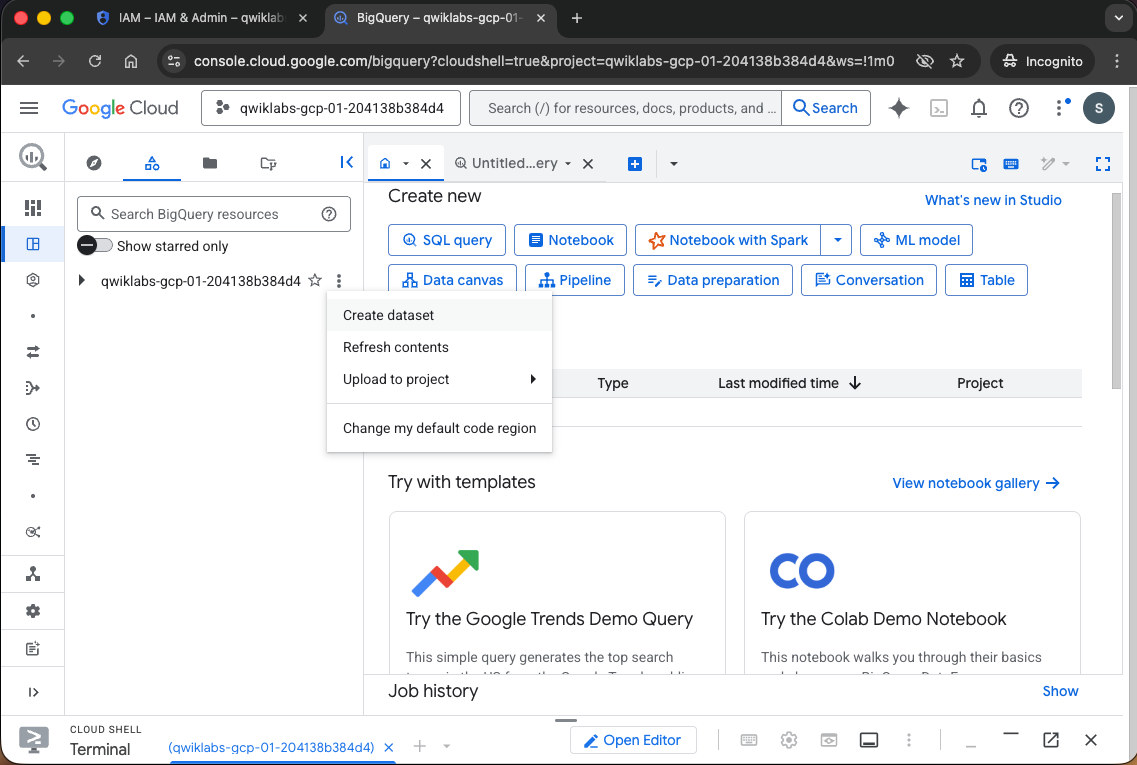
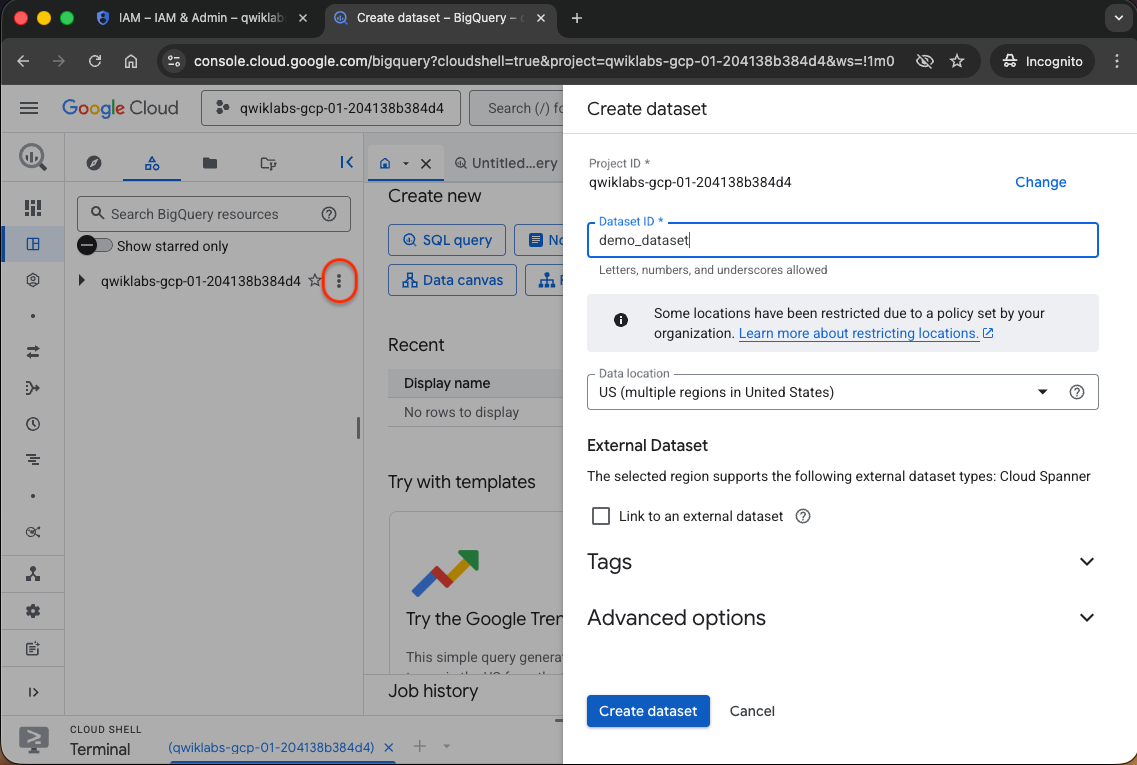
updated docs

diff --git a/GCP/guide/03-biglake.md b/GCP/guide/03-biglake.md
@@ -1,44 +1,254 @@
 ## Biglake
 
 **Preparation :**
+
 1. Activate Cloud Shell
 
    List the active account name `gcloud auth list`
 
    List the project ID : `gcloud config list project`
 
-    <img src="ss/datastream/01.png" width=75%>
-
 #### Task 1. Create a connection resource
 
 1. From the Navigation Menu, go to BigQuery > Studio. Click Done.
-
 2. To create a connection, switch to Explorer tab and click + Add data. Then use the search bar for data sources to search for Vertex AI. Click on the result for Vertex AI.
-
 3. In the Access external data in place, select BigQuery Federation.
 
+    <img src="ss/biglake/01-vertex-fed.png" width=60%>
 4. In the Connection type list, select Vertex AI remote models, remote functions and BigLake (Cloud Resource).
-
 5. In the Connection ID field, type my-connection.
-
 6. For Location type, choose Multi-region and select US (multiple regions in United States) from dropdown.
-
 7. Click Create connection.
 
+    <img src="ss/biglake/02-connection.png" width=60%>
+
+copy service account for next step.
+
 #### Task 2. Set up access to a Cloud Storage data lake
+
+The new connection resource read-only access to the Cloud Storage data lake so that BigQuery can access Cloud Storage files on behalf of users.
+
+<img src="ss/biglake/03-iam.png" width=60%>
 
 #### Task 3. Create a BigLake table
 
 **Create Dataset**
 
+Switch to Classic Explorer and click the three dots next to your project name, then select Create dataset.
+
+<img src="ss/biglake/04-create-ds.png" width=60%>
+
 **Create the table**
+
+Click on three dots next to demo_dataset, then choose Create table.
+
+<img src="ss/biglake/05-create-table-01.png" width=60%> <br>
+
+For Schema, enable Edit as text and copy and paste the following schema into the text box:
+
+```
+[
+{
+    "name": "customer_id",
+    "type": "INTEGER",
+    "mode": "REQUIRED"
+  },
+  {
+    "name": "first_name",
+    "type": "STRING",
+    "mode": "REQUIRED"
+  },
+  {
+    "name": "last_name",
+    "type": "STRING",
+    "mode": "REQUIRED"
+  },
+  {
+    "name": "company",
+    "type": "STRING",
+    "mode": "NULLABLE"
+  },
+  {
+    "name": "address",
+    "type": "STRING",
+    "mode": "NULLABLE"
+  },
+  {
+    "name": "city",
+    "type": "STRING",
+    "mode": "NULLABLE"
+  },
+  {
+    "name": "state",
+    "type": "STRING",
+    "mode": "NULLABLE"
+  },
+  {
+    "name": "country",
+    "type": "STRING",
+    "mode": "NULLABLE"
+  },
+  {
+    "name": "postal_code",
+    "type": "STRING",
+    "mode": "NULLABLE"
+  },
+  {
+    "name": "phone",
+    "type": "STRING",
+    "mode": "NULLABLE"
+  },
+  {
+    "name": "fax",
+    "type": "STRING",
+    "mode": "NULLABLE"
+  },
+  {
+    "name": "email",
+    "type": "STRING",
+    "mode": "REQUIRED"
+  },
+  {
+    "name": "support_rep_id",
+    "type": "INTEGER",
+    "mode": "NULLABLE"
+  }
+]
+```
+
+
+<img src="ss/biglake/05-create-table-03.png" width=60%>
 
 #### Task 4. Query a BigLake table through BigQuery
 
+run the query:
+```sql
+SELECT * FROM `Project ID.demo_dataset.biglake_table`
+```
+
+<img src="ss/biglake/06-schema-01.png" width=60%>
+
 #### Task 5. Set up access control policies
+
+Add policy tags to columns
+
+<img src="ss/biglake/07-policy-01.png" width=60%> <br>
+
+<img src="ss/biglake/07-policy-02.png" width=60%>
 
 **Verify the column level security**
 
 ```sql
 SELECT * FROM `Project ID.demo_dataset.biglake_table`
 ```
+
+<img src="ss/biglake/07-policy-03.png" width=60%> <br>
+
+```sql
+SELECT *  EXCEPT(address, phone, postal_code)
+FROM `Project ID.demo_dataset.biglake_table`
+```
+
+<img src="ss/biglake/07-policy-04.png" width=60%> <br>
+
+#### Task 6. Upgrade external tables to BigLake tables
+
+##### Create the external table
+
+1. Click three dots next to demo_dataset, then choose Create table.
+
+2. For Create table from, choose Google Cloud Storage from the dropdown.
+
+<img src="ss/biglake/08-create-table-01.png" width=60%> <br>
+
+For Schema, enable Edit as text and copy and paste the following schema into the text box:
+
+```
+[
+{
+    "name": "invoice_id",
+    "type": "INTEGER",
+    "mode": "REQUIRED"
+  },
+  {
+    "name": "customer_id",
+    "type": "INTEGER",
+    "mode": "REQUIRED"
+  },
+  {
+    "name": "invoice_date",
+    "type": "TIMESTAMP",
+    "mode": "REQUIRED"
+  },
+  {
+    "name": "billing_address",
+    "type": "STRING",
+    "mode": "NULLABLE"
+  },
+  {
+    "name": "billing_city",
+    "type": "STRING",
+    "mode": "NULLABLE"
+  },
+  {
+    "name": "billing_state",
+    "type": "STRING",
+    "mode": "NULLABLE"
+  },
+  {
+    "name": "billing_country",
+    "type": "STRING",
+    "mode": "NULLABLE"
+  },
+  {
+    "name": "billing_postal_code",
+    "type": "STRING",
+    "mode": "NULLABLE"
+  },
+  {
+    "name": "total",
+    "type": "NUMERIC",
+    "mode": "REQUIRED"
+  }
+]
+```
+
+<img src="ss/biglake/08-create-table-03.png" width=60%> <br>
+
+##### Update external table to Biglake table
+
+1. Open a new Cloud Shell window and run the following command to generate a new external table definition that specifies the connection to use:
+    ```sql
+    export PROJECT_ID=$(gcloud config get-value project)
+    bq mkdef \
+    --autodetect \
+    --connection_id=$PROJECT_ID.US.my-connection \
+    --source_format=CSV \
+    "gs://$PROJECT_ID/invoice.csv" > /tmp/tabledef.json
+    ```
+
+2. Verify your table definition has been created:
+
+    `cat /tmp/tabledef.json`
+
+3. Get the schema from your table:
+
+    ```sql bq show --schema --format=prettyjson  demo_dataset.external_table > /tmp/schema```
+
+4. Update the table using the new external table definition:
+
+    ```sql bq update --external_table_definition=/tmp/tabledef.json --schema=/tmp/schema demo_dataset.external_table```
+
+<img src="ss/biglake/08-create-table-05.png" width=60%> <br>
+
+##### Verify the updated table
+
+From the Navigation Menu, go to BigQuery > Studio.
+
+Navigate to demo-dataset > and click external_table.
+
+Open the Details tab.
+
+Verify under External Data Configuration that the table is now using the proper Connection ID.
+
+<img src="ss/biglake/08-create-table-04.png" width=60%> <br>
